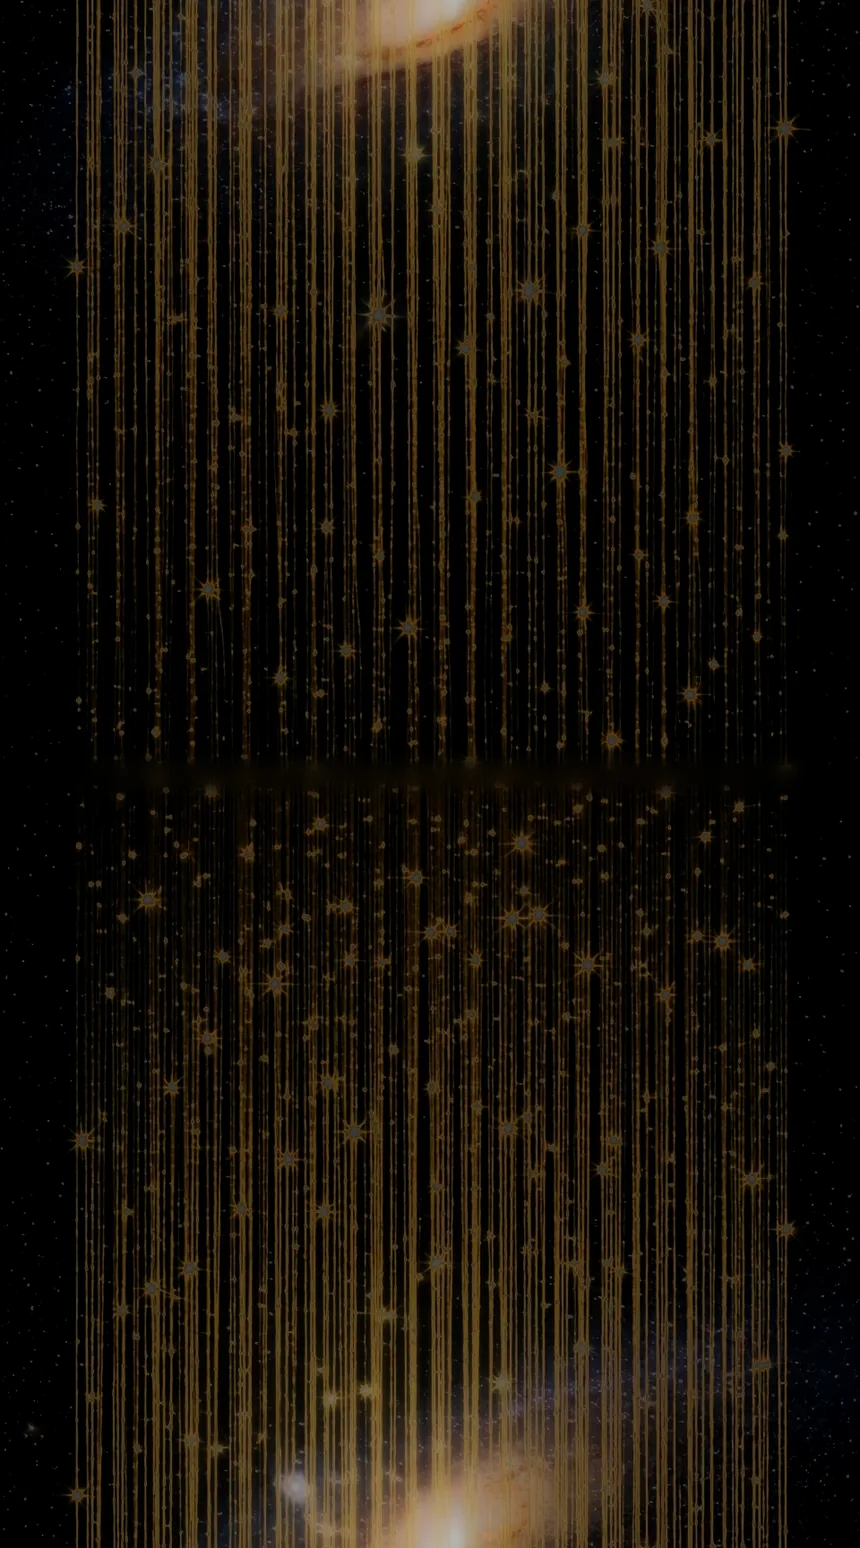
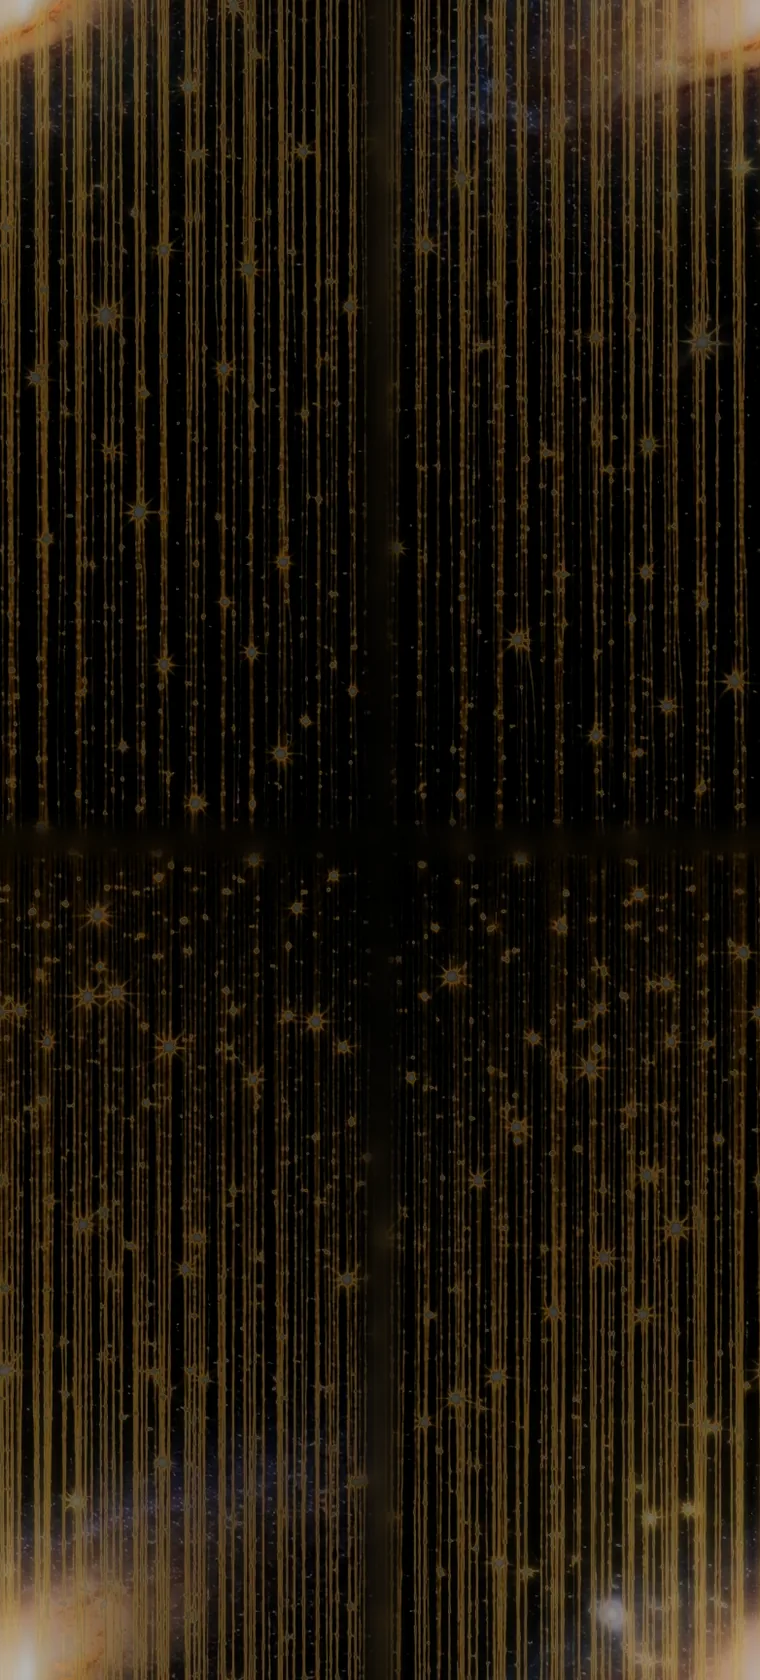
Corrige la bande noire du fond fond-defilement (marges natives recadrées)
Martin: « une bande verticale complètement noire, pas de fil ». Cause :
l'image source a une vraie marge quasi-noire sur les bords gauche/droite
(~85/81px sur 960px) — la couture horizontale brute mesurait 1,28
(excellente) mais c'était noir-contre-noir, pas une vraie continuité :
deux marges qui se rejoignent en tuile forment une bande morte deux fois
plus large.

Fix : recadrage des marges (960->782px de large) puis traitement des DEUX
raccords sur le vrai contenu (offset 50% + fondu, vertical ET horizontal).
Plus aucune zone sans fil ni étoile.

diff --git a/templates/index.html b/templates/index.html
@@ -61,14 +61,21 @@ html,body{overflow-x:hidden}
    → 2026-08-27 (2e remplacement, même jour) : Martin a fourni une image
    PENSÉE pour le défilement continu — Ta-Trame-fond-defilement.png, déjà
    portrait (960×1728), fils verticaux PARALLÈLES (pas d'éventail) et galaxie
-   centrée à 49 % de la hauteur, loin des bords. Mesure de couture BRUTE
-   (avant tout traitement) : 11,96 (haut/bas) et 1,28 (gauche/droite) — déjà
-   bien plus propre que fils_tendus (43,48/22,38 bruts). Un simple polissage
-   (offset 50 % + fondu, bande étroite de 34px — pas besoin du miroir cette
-   fois) suffit : couture finale 4,74/1,22, quasi imperceptible. Toute
-   l'image sert de tuile (pas de bande découpée : la galaxie centrée ne gêne
-   aucune couture). Recompressée fond-defilement.webp, 860×1548 (2× l'affichage
-   430×774), 128 Ko contre 1 622 Ko pour le PNG source — 12,7× plus léger.
+   centrée à 49 % de la hauteur, loin des bords.
+   ⚠ PIÈGE (Martin, 2026-08-27 : « une bande verticale complètement noire,
+   pas de fil ») : le fichier source a une VRAIE marge quasi-noire native sur
+   les bords gauche/droite (~85px/81px sur 960px) — la couture horizontale
+   « brute » mesurait 1,28 (excellente !) mais c'était noir-contre-noir, pas
+   une vraie continuité de motif : deux marges qui se rejoignent en tuile
+   forment une bande morte deux fois plus large. Corrigé en RECADRANT ces
+   marges avant tout traitement (crop 91→873, largeur 960→782), puis en
+   traitant les DEUX raccords sur le vrai contenu (offset 50 % + fondu,
+   vertical ET horizontal) : couture finale 4,45 (haut/bas) / 16,73
+   (gauche/droite, plus dur à masquer que le vertical mais sans plus aucune
+   zone vide). Recompressée fond-defilement.webp, 760×1680 (2× l'affichage
+   380×840), 132 Ko contre 1 622 Ko pour le PNG source. Toujours vérifier
+   qu'un bord d'image livrée n'a pas de marge morte AVANT de faire confiance
+   à une mesure de couture basse — elle peut mentir (noir = noir).
    L'en-tête (.bandeau-marque, plus bas) N'EST PAS touché : sa propre image
    (trame-bandeau.jpg, déjà un JPEG léger) et sa propre
    `background-color:#141110` opaque le protègent déjà entièrement de ce
@@ -80,10 +87,10 @@ body{
       rgba(20,17,16,.62) 0%, rgba(20,17,16,.45) 55%, rgba(20,17,16,.62) 100%),
     url('/static/img/fond-defilement.webp');
   background-position:0 0, top left;
-  /* Tuile 860×1548 (ratio 5:9, portrait — un seul grand défilé de fils plutôt
-     qu'une petite texture dense). Hauteur EXPLICITE (774px), jamais `auto` —
-     voir la note historique ci-dessus sur ce piège. */
-  background-size:auto, 430px 774px;
+  /* Tuile 760×1680 (ratio ≈ 782:1728, portrait — un seul grand défilé de fils
+     plutôt qu'une petite texture dense). Hauteur EXPLICITE (840px), jamais
+     `auto` — voir la note historique ci-dessus sur ce piège. */
+  background-size:auto, 380px 840px;
   background-repeat:no-repeat, repeat;
   color:var(--encre); font-family:var(--sans);
   line-height:1.62; -webkit-font-smoothing:antialiased;
